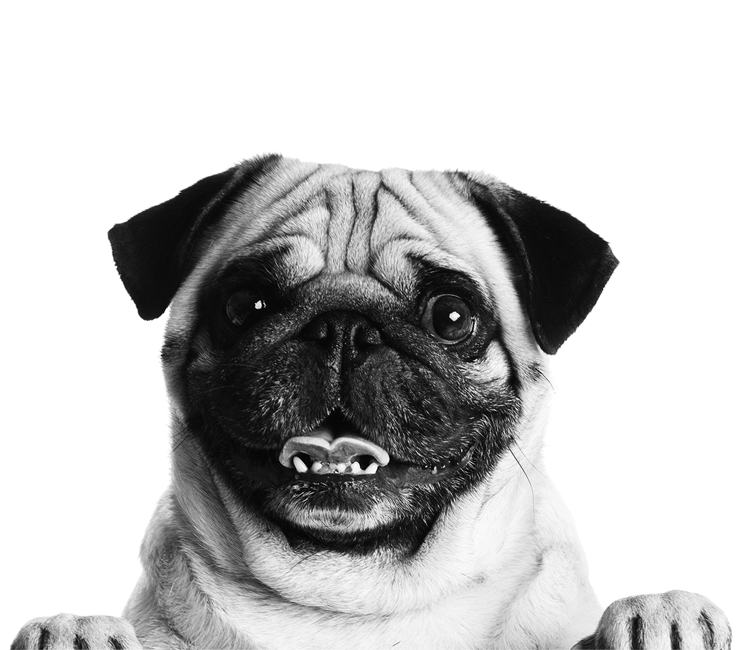
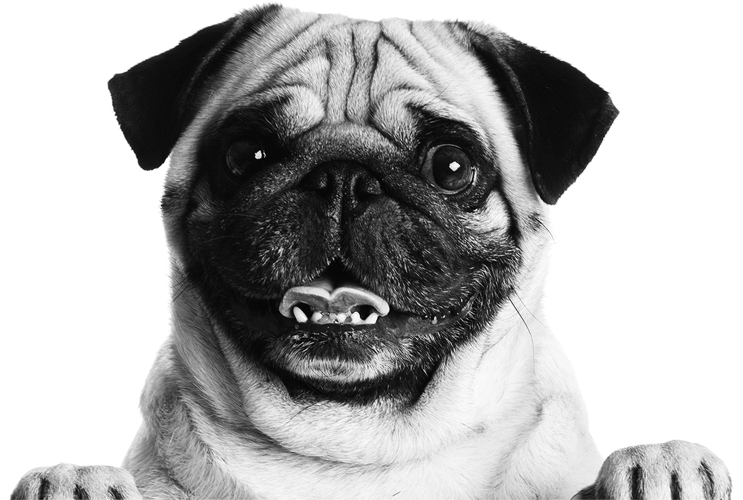
smart left nav.  collapses, fixed position etc based on screen.

diff --git a/_src/scss/partials/_sidenav.scss b/_src/scss/partials/_sidenav.scss
@@ -10,6 +10,9 @@ nav {
 
     border-bottom-right-radius: 20px;
 
+    &.nav-fixed {
+        position: fixed;
+    }
 
     &.toggler-open {
         left: 0;
@@ -88,6 +91,7 @@ nav {
     }
 }
 
+.main-logo,
 .nav-logo {
     width: 100%;
     padding: $small-padding;
@@ -95,6 +99,10 @@ nav {
     img {
         width: 100%;
     }
+}
+
+.nav-logo {
+    display: none;
 }
 
 .nav-toggle {
@@ -183,10 +191,11 @@ nav {
 .nav-link-dropdown {
     border-right: $nav-border-size solid transparent;
     position: relative;
-    @include transition($duration-long, $duration-short);
+    //@include transition($duration-long, $duration-short);
+    @include transition($duration-long, 0);
     
     .nav-link-toggle {
-        @include transition($duration-long, 0);
+        @include transition($duration-short, 0);
         border-radius: 4px;
         padding: 3px;
         height: 25px;
@@ -198,6 +207,11 @@ nav {
         right: 10px;
         z-index: 1;
         display: block;
+
+        &:before {
+            cursor: pointer;
+            color: #fff;
+        }
 
         &:hover {
             text-decoration: none;
@@ -227,10 +241,14 @@ nav {
 
 .nav-link-dropdown-content {
     display: block;
-    padding: 0 $base-padding;
+    padding-left: $base-padding;
     overflow: hidden;
     max-height: 0;
     @include transition($duration-long, 0);
+
+    &.no-touchy {
+        padding: 0 $base-padding;
+    }
 
     .nav-link {
         font-size: 1.4rem;
@@ -254,7 +272,7 @@ nav {
     }
 }
 
-@media (min-width: $screen-sm) {
+@media (min-width: 550px) {
     nav {
         left: 0;
 
@@ -375,6 +393,14 @@ nav {
         }
     }
 
+    .nav-logo {
+        display: block;
+    }
+
+    .main-logo {
+        display: none;
+    }
+
     .nav-toggle {
         display: none;
     }
@@ -386,13 +412,14 @@ nav {
     }
 
     .nav-link-dropdown {
-        @include transition($duration-short, $duration-long);
+        @include transition($duration-short, 0);
+        //@include transition($duration-short, $duration-long);
 
         .nav-link-toggle {
-            display: none
+            //display: none
         }
 
-        &:hover {
+        /*&:hover {
             @include transition($duration-short, 0);
 
             .nav-link-dropdown-content {
@@ -411,7 +438,7 @@ nav {
         &.toggler-open .nav-link-dropdown-content,
         .nav-link-dropdown-content {
             max-height: 0;
-        }
+        }*/
     }
 }
 

diff --git a/_src/scss/partials/_sections.scss b/_src/scss/partials/_sections.scss
@@ -1,17 +1,29 @@
 .collage-section {
-    display: block;
+    display: none;
     width: 100%;
     height: 50px;
 }
 
 .section {
-    background-attachment: fixed;
-    background-position: bottom right;
+    background-size: contain;
     background-repeat: no-repeat;
-    background-size: 60%;
+    background-position: bottom right;
+    background-attachment: fixed;
     min-height: 100%;
-    //padding: $nav-height + $nav-top-padding + $base-padding $base-padding $base-padding $base-padding;
-    padding: $base-padding $base-padding $base-padding $nav-width + $base-padding;
+    padding: $base-padding;
+
+    p {
+        font-size: 1.8rem;
+        line-height: 1.8rem;
+    }
+
+    li {
+        font-size: 1.8rem;
+        line-height: 1.8rem;
+        list-style-type: disc;
+        margin-left: 50px;
+    }
+
 
     &.intro {
         background-color: $intro-primary;
@@ -109,25 +121,35 @@
             }
         }
     }
+}
 
-    
-    > * {
-        width: 50%;
+.collage-section {
+    &.intro {
+        background-color: $intro-primary;
     }
 
-    p {
-        font-size: 1.15rem;
-        line-height: 1.2rem;
-        width: 40%;
-        font-family: $font-family-serif;
+    &.about {
+        background-color: $about-primary;
     }
 
-    li {
-        font-family: $font-family-serif;
-        font-size: 1.15rem;
-        line-height: 1.2rem;
-        list-style-type: disc;
-        margin-left: 50px;
+    &.services {
+        background-color: $services-primary;
+    }
+
+    &.livestream {
+        background-color: $livestream-primary;
+    }
+
+    &.enroll {
+        background-color: $enroll-primary;
+    }
+
+    &.schedule {
+        background-color: $schedule-primary;
+    }
+
+    &.contact {
+        background-color: $contact-primary;
     }
 }
 
@@ -199,5 +221,27 @@
         background: $alert-success;
         color: $alert-success-text;
         border-color: $alert-success-text;
+    }
+}
+
+
+@media (min-width: 550px) {
+    .section {
+        padding: $base-padding $base-padding $base-padding $nav-width + $base-padding;
+    }
+}
+@media (max-width: 650px) {
+    .section {
+        background-image: none !important;
+    }
+}
+@media (min-width: 650px) {
+    .section {
+        padding: $base-padding 25% $base-padding $nav-width + $base-padding;
+    }
+}
+@media (min-width: $screen-sm) {
+    .collage-section {
+        display: block;
     }
 }

diff --git a/templates/nav.html b/templates/nav.html
@@ -3,17 +3,17 @@
 <a class="nav-link about icon-paw" href="#about">About</a>
 <a class="nav-link services icon-paw" href="#services">Services</a>
 <a class="nav-link livestream icon-paw" href="#livestream">Livestream</a>
-<div class="nav-link-dropdown enroll" togglerMenu item="enroll-menu">
+<div class="nav-link-dropdown toggler-open enroll" togglerMenu item="enroll-menu">
     <a class="nav-link-toggle theme-reversed enroll icon-chevron-down" toggler item="enroll-menu"><span>Toggle</span></a>
     <a class="nav-link enroll icon-paw" href="#enroll">Enroll</a>
-    <form class="nav-link-dropdown-content enroll">
+    <form class="nav-link-dropdown-content enroll no-touchy">
         <input type="text" name="username" id="username" placeholder="Username">
         <input type="password" name="password" id="password" placeholder="Password">
         <a href="" class="btn btn-sm icon-lock">Login</a>
         <p><a href="#">Forgot password?</a></p>
     </form>
 </div>
-<div class="nav-link-dropdown enroll" togglerMenu item="account-menu">
+<!--<div class="nav-link-dropdown toggler-open enroll" togglerMenu item="account-menu">
     <a class="nav-link-toggle theme-reversed enroll icon-chevron-down" toggler item="account-menu"><span>Toggle</span></a>
     <a class="nav-link enroll icon-paw" href="#">My Account</a>
     <div class="nav-link-dropdown-content enroll">
@@ -22,5 +22,5 @@
         <a class="nav-link theme-reversed enroll icon-guide-dog" href="#dogs">My Dogs</a>
         <a class="nav-link theme-reversed enroll icon-guide-dog" href="#logout">Logout</a>
     </div>
-</div>
+</div>-->
 <a class="nav-link contact icon-paw" href="#contact">Contact</a>

diff --git a/_src/js/nav/components/nav.ts b/_src/js/nav/components/nav.ts
@@ -1,11 +1,33 @@
-import {Component} from 'angular2/core';
+import {Component, OnInit, ElementRef} from 'angular2/core';
 import {Toggler} from "../../toggler/components/toggler";
 import {TogglerMenu} from "../../toggler/components/toggler-menu";
+import {TogglerService} from "../../toggler/services/toggler";
 
 @Component({
     selector: "nav",
     templateUrl: "templates/nav.html",
-    directives: [Toggler, TogglerMenu]
+    host: {
+        "(window:scroll)": "figureNav($event)",
+        "(window:resize)": "figureNav($event)",
+        "[class.nav-fixed]": "isFixed",
+    },
+    directives: [Toggler, TogglerMenu],
+    providers: [TogglerService]
 })
 
-export class NavComponent { }
+export class NavComponent {
+    private height: number = 0;
+    private isFixed: boolean = true;
+    constructor(private _service: TogglerService, private _element:ElementRef) { }
+
+    ngOnInit() {
+        this.height = this._element.nativeElement.clientHeight;
+        this._service.toggle("enroll-menu");
+        this._service.toggle("account-menu");
+        this._service.toggle("nav-menu");
+    }
+
+    figureNav(e) {
+        this.isFixed = e.target.innerHeight >= this.height;
+    }
+}

diff --git a/templates/intro.html b/templates/intro.html
@@ -1,4 +1,5 @@
 <header class="section intro" id="intro" name="intro">
+    <h1 class="main-logo"><img src="images/logo-iso.png" alt="Storybook Kennels"></h1>
     <p class="contrast">At <span class="standard">Storybook Kennels</span>, we offer professional, fun daycare and boarding for dogs of all sizes and ages.</p>
     <p>Run by dog lovers, Storybook Kennels provides <span class="subtle">individual attention and group play</span> for all visitors.  We welcome the opportunity to care for your dogs the way you would, including <span class="subtle">special accommodations for illnesses and disabilities</span>.  We'll even let them on the furniture!</p>
     <p>Sign up and schedule your next appointment today!</p>

diff --git a/templates/about.html b/templates/about.html
@@ -1,4 +1,4 @@
-<section class="col-md-6 about" id="about" name="about">
+<section class="section about" id="about" name="about">
     <h2 class="icon-paw">About</h2>
     <p>Lorem ipsum dolor sit amet, consectetur adipiscing elit, sed do eiusmod tempor incididunt ut labore et dolore magna aliqua. Ut enim ad minim veniam, quis nostrud exercitation ullamco laboris nisi ut aliquip ex ea commodo consequat.</p>
 

diff --git a/_src/scss/bootstrap/_variables.scss b/_src/scss/bootstrap/_variables.scss
@@ -27,7 +27,7 @@ $brand-danger:          #d9534f !default;
 //## Settings for some of the most global styles.
 
 //** Background color for `<body>`.
-$body-bg:               #ccc !default;
+$body-bg:               #fff !default;
 
 //** Global text color on `<body>`.
 $text-color:            $gray-dark !default;

diff --git a/_src/scss/partials/_variables.scss b/_src/scss/partials/_variables.scss
@@ -39,7 +39,7 @@ $intro-primary: #edc45b;
 $intro-text: #fff;
 $intro-contrast: #372d2d;
 $intro-subtle: #fff799;
-$intro-background: url(../images/backgrounds/pug.png);
+$intro-background: url(../images/backgrounds/pug-face.png);
 
 .intro {
     .contrast {

diff --git a/_src/js/toggler/components/toggler-menu.ts b/_src/js/toggler/components/toggler-menu.ts
@@ -14,7 +14,6 @@ export class TogglerMenu {
     private item: string;
 
     toggle(item) {
-        console.log("TOGGLE HEARD", item, this.item);
         if (item == this.item) {
             this.isOpen = !this.isOpen;    
         }

diff --git a/_src/scss/main.scss b/_src/scss/main.scss
@@ -6,6 +6,14 @@
 @import "partials/_sections.scss";
 @import "partials/_buttons.scss";
 
+html, body {
+    height: 100%;
+    width: 100%;
+    overflow-x: hidden;
+    position: relative;
+}
+
+a:hover,
 a:focus {
     color: #fff;
 }

diff --git a/_src/js/toggler/components/toggler.ts b/_src/js/toggler/components/toggler.ts
@@ -19,6 +19,5 @@ export class Toggler {
 
     constructor(private _service: TogglerService, @Attribute("item") item: string) {
         this.item = item;
-        this._service.toggle(this.item); // initialize service
     }
 }

diff --git a/templates/app.html b/templates/app.html
@@ -1,4 +1,4 @@
-<nav togglerMenu item="nav-menu"></nav>
+<nav togglerMenu item="nav-menu" class="toggler-open"></nav>
 
 <intro></intro>
 <collage class="collage-section intro"></collage>
